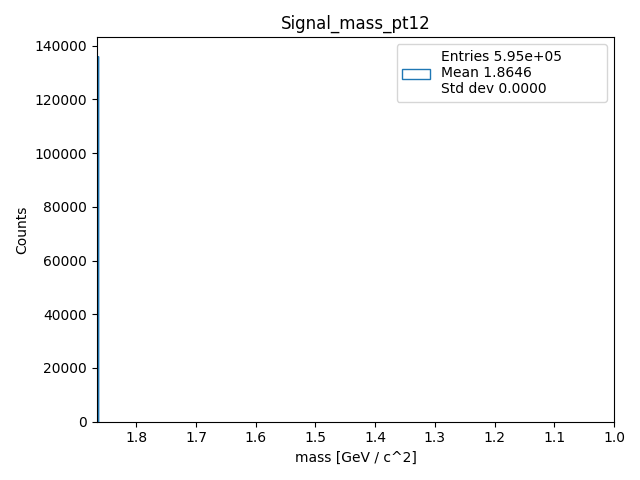
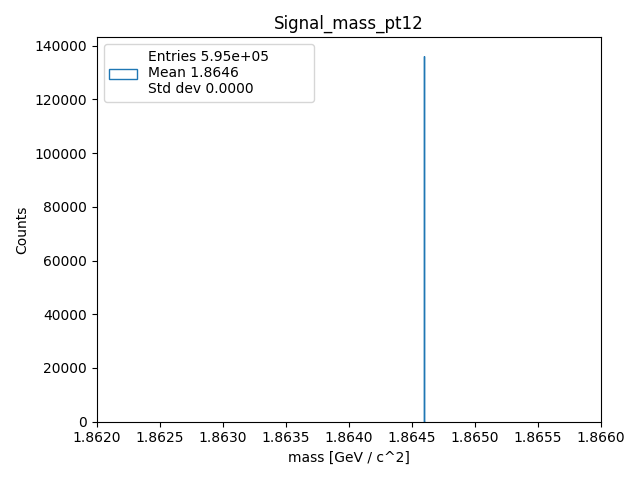
histogram with weights, moved .npy files to data/, created background hists

diff --git a/task2/make_hist_npy.py b/task2/make_hist_npy.py
@@ -3,22 +3,38 @@ import numpy as np
 import sys, getopt
 import time
 
-from custom_fnk import make_hist, label_position #make_hist_weight
+from custom_fnk import make_hist, label_position
 
 
 def make_hist_signal(array, labels):
-    '''It requires img/ directory to work!!!'''
-    make_hist(array[:, label_position(labels, 'm')], 22, 'Signal_mass_pt12', 'mass [GeV / c^2]', 1.862, 1.866)
-    make_hist(array[:, label_position(labels, 'pt')], 150, 'Signal_pt_12', 'pt [GeV]')
-    make_hist(array[:, label_position(labels, 'decayLength')], 150, 'Signal_decayLength_pt_12', 'pt [GeV]')
-    make_hist(array[:, label_position(labels, 'dca12')], 150, 'Signal_dca12_pt_12')
+    '''It requires output_folder directory to work!!!'''
+    weightArray = array[:, label_position(labels, 'matchHftWeight')] # None or array (depends whether you want weights included)
+    output_dir = 'img_with_weights/'
+    make_hist(array[:, label_position(labels, 'm')], 220, 'Signal_mass_pt12', 'mass [GeV / c^2]', 1.862, 1.866, weights=weightArray, output_folder=output_dir)
+    make_hist(array[:, label_position(labels, 'pt')], 150, 'Signal_pt_12', 'pt [GeV]', weights=weightArray, output_folder=output_dir)
+    make_hist(array[:, label_position(labels, 'decayLength')], 150, 'Signal_decayLength_pt_12', 'pt [GeV]', weights=weightArray, output_folder=output_dir)
+    make_hist(array[:, label_position(labels, 'dca12')], 150, 'Signal_dca12_pt_12', weights=weightArray, output_folder=output_dir)
+    
+    make_hist(array[:, label_position(labels, 'ptKaon')], 150, 'Signal_ptKaon_pt_12', weights=weightArray, output_folder=output_dir)
+    make_hist(array[:, label_position(labels, 'dcaKaon')], 150, 'Signal_dcaKaon_pt_12', weights=weightArray, output_folder=output_dir)
 
-    make_hist(array[:, label_position(labels, 'ptKaon')], 150, 'Signal_ptKaon_pt_12')
-    make_hist(array[:, label_position(labels, 'dcaKaon')], 150, 'Signal_dcaKaon_pt_12')
+    make_hist(array[:, label_position(labels, 'ptPion')], 150, 'Signal_ptPion_pt_12', weights=weightArray, output_folder=output_dir)
+    make_hist(array[:, label_position(labels, 'dcaPion')], 150, 'Signal_dcaPion_pt_12', weights=weightArray, output_folder=output_dir)
 
-    make_hist(array[:, label_position(labels, 'ptPion')], 150, 'Signal_ptPion_pt_12')
-    make_hist(array[:, label_position(labels, 'dcaPion')], 150, 'Signal_dcaPion_pt_12')
+def make_hist_background(array, labels):
+    '''It requires output_folder directory to work!!!'''
+    output_dir = 'img/'
+    make_hist(array[:, label_position(labels, 'm')], 220, 'Background_mass_pt12', 'mass [GeV / c^2]', 1.862, 1.866, output_folder=output_dir)
+    make_hist(array[:, label_position(labels, 'pt')], 150, 'Background_pt_12', 'pt [GeV]', output_folder=output_dir)
+    make_hist(array[:, label_position(labels, 'decayLength')], 150, 'Background_decayLength_pt_12', 'pt [GeV]', output_folder=output_dir)
+    make_hist(array[:, label_position(labels, 'dca12')], 150, 'Background_dca12_pt_12', output_folder=output_dir)
+    
+    make_hist(array[:, label_position(labels, 'ptKaon')], 150, 'Background_ptKaon_pt_12', output_folder=output_dir)
+    make_hist(array[:, label_position(labels, 'dcaKaon')], 150, 'Background_dcaKaon_pt_12', output_folder=output_dir)
 
+    make_hist(array[:, label_position(labels, 'ptPion')], 150, 'Background_ptPion_pt_12', output_folder=output_dir)
+    make_hist(array[:, label_position(labels, 'dcaPion')], 150, 'Background_dcaPion_pt_12', output_folder=output_dir)
+    
 
 def main(argv):
     try:
@@ -28,7 +44,7 @@ def main(argv):
         sys.exit(2)
 
     if len(opts) != 1:
-        print(f'I need 1 argument only in format ./[program_name] -i <input_file.npy>')
+        print(f'I need 1 argument in format ./[program_name] -i <input_file.npy>')
         sys.exit(1)
 
     for opt, arg in opts:
@@ -36,17 +52,21 @@ def main(argv):
             inputfile = arg
         
     start = time.time()
-
+    x = input("Is it Signal or Background? [S/B]\n").lower()
+    if x != 's' and x != 'b':
+        print("arguments are S or B...")
+        sys.exit(3)
     array = np.load(inputfile, allow_pickle=True)
 
     labels = list(array[:1].astype(str)[0])
     array = array[1:].astype('float64')
     print(f'Loaded in {time.time() - start:.2f}s')
 
-    make_hist_signal(array, labels)
-
-    #make_hist_signal_weight(array, labels)
-
+    
+    if x == 's':
+        make_hist_signal(array, labels)
+    elif x == 'b':
+        make_hist_background(array,labels)
 
 
 if __name__ == '__main__':

diff --git a/task2/custom_fnk.py b/task2/custom_fnk.py
@@ -32,13 +32,13 @@ def label_position(list, name):
     '''Returns an index of the requested label in a list.'''
     return list.index(name)
 
-def make_hist(x, bins, title, x_label='', weights=None, x_min=None, x_max=None):
+def make_hist(x, bins, title, x_label='', x_min=None, x_max=None, weights=None, output_folder=''):
     '''Making histogram using matplotlib.'''
     hist_desc = f'Entries {format(x.shape[0], ".2e")}\
          \nMean {np.mean(x):.4f} \nStd dev {np.std(x):.4f}'
-    img_path = f'img/{title}.png'
-
-    plt.hist(x=x, bins=bins, histtype='step', label=hist_desc)
+    img_path = f'{output_folder}{title}.png'
+    plt.clf() # clear buffer before making next histogram!
+    plt.hist(x=x, bins=bins, histtype='step', label=hist_desc, weights=weights)
 
     if not x_min == None:
         plt.autoscale(enable=False, axis='x')
@@ -50,4 +50,4 @@ def make_hist(x, bins, title, x_label='', weights=None, x_min=None, x_max=None):
     plt.legend(loc='best')
     plt.tight_layout()
     plt.savefig(img_path)
-    plt.show()
+    #plt.show()
